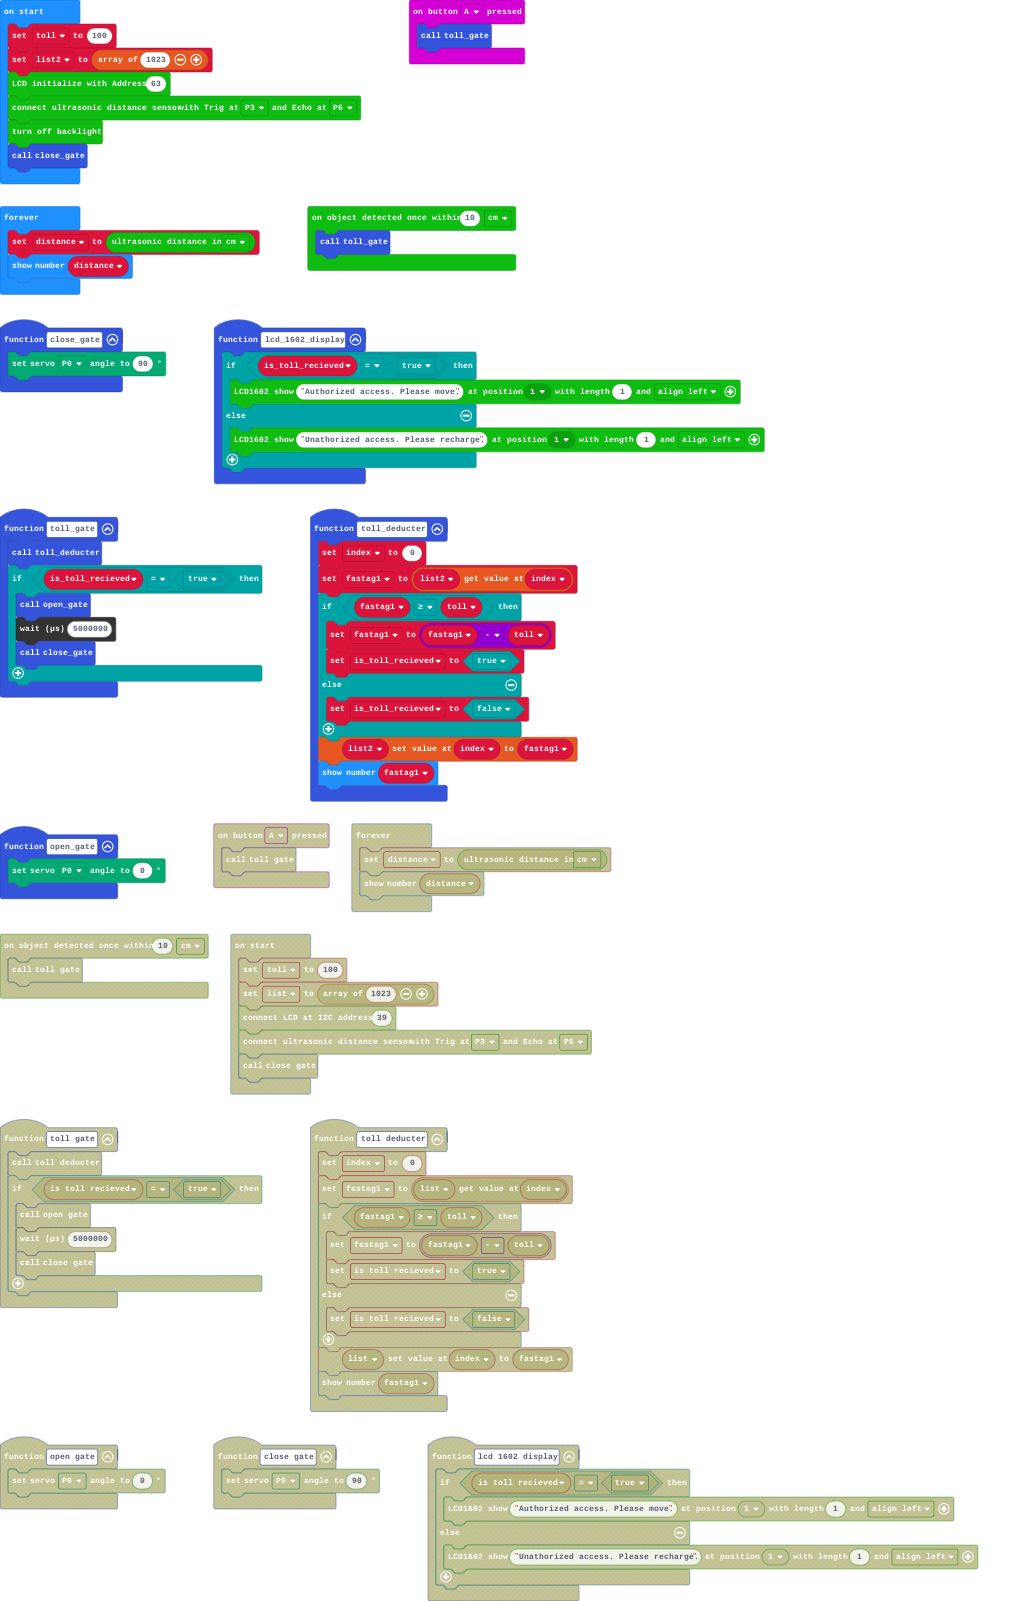
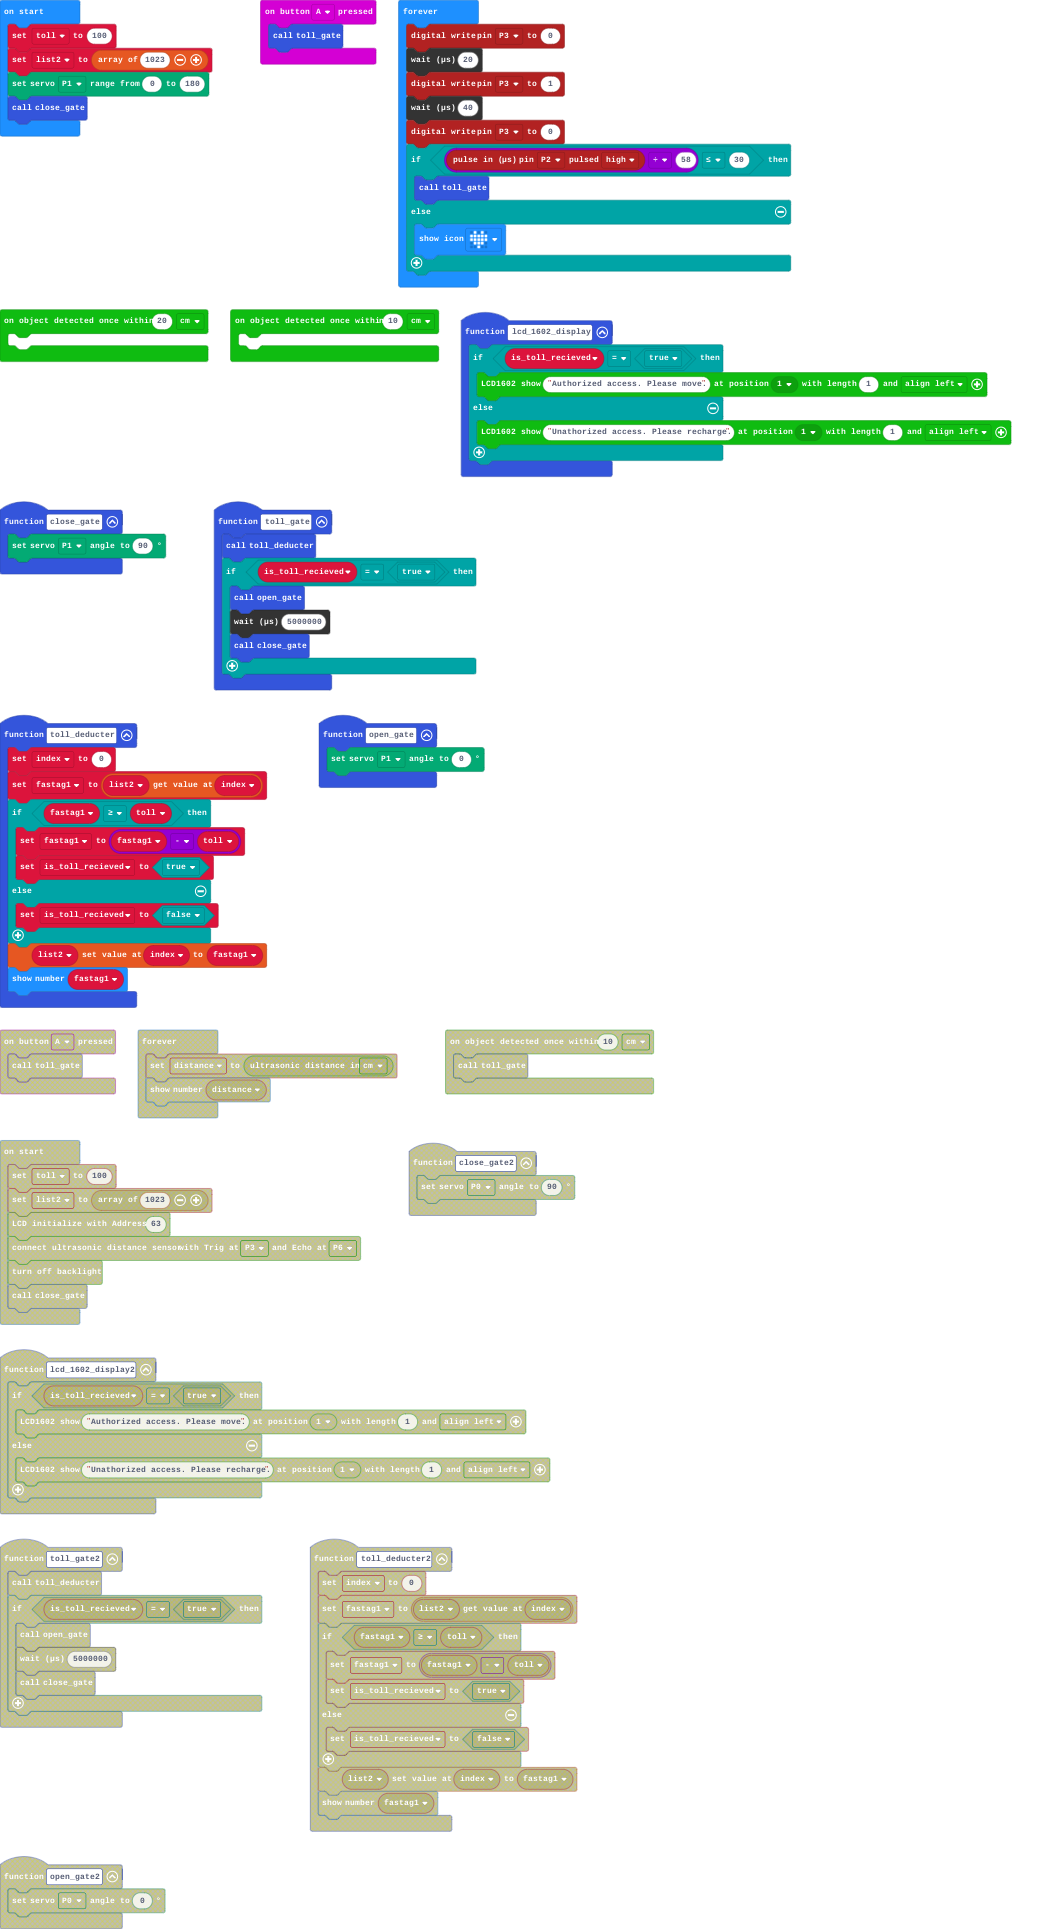
Update main.blocks, main.ts, main.py

diff --git a/main.ts b/main.ts
@@ -6,6 +6,9 @@ function toll_gate () {
         close_gate()
     }
 }
+makerbit.onUltrasonicObjectDetected(20, DistanceUnit.CM, function () {
+	
+})
 function lcd_1602_display () {
     if (is_toll_recieved == true) {
         makerbit.showStringOnLcd1602("Authorized access. Please move.", makerbit.position1602(LcdPosition1602.Pos1), 1, TextOption.AlignLeft)
@@ -14,10 +17,10 @@ function lcd_1602_display () {
     }
 }
 makerbit.onUltrasonicObjectDetected(10, DistanceUnit.CM, function () {
-    toll_gate()
+	
 })
 function close_gate () {
-    servos.P0.setAngle(90)
+    servos.P1.setAngle(90)
 }
 input.onButtonPressed(Button.A, function () {
     toll_gate()
@@ -35,9 +38,8 @@ function toll_deducter () {
     basic.showNumber(fastag1)
 }
 function open_gate () {
-    servos.P0.setAngle(0)
+    servos.P1.setAngle(0)
 }
-let distance = 0
 let fastag1 = 0
 let index = 0
 let is_toll_recieved = false
@@ -45,11 +47,17 @@ let list2: number[] = []
 let toll = 0
 toll = 100
 list2 = [1023]
-I2C_LCD1602.LcdInit(63)
-makerbit.connectUltrasonicDistanceSensor(DigitalPin.P3, DigitalPin.P6)
-I2C_LCD1602.BacklightOff()
+servos.P1.setRange(0, 180)
 close_gate()
 basic.forever(function () {
-    distance = makerbit.getUltrasonicDistance(DistanceUnit.CM)
-    basic.showNumber(distance)
+    pins.digitalWritePin(DigitalPin.P3, 0)
+    control.waitMicros(20)
+    pins.digitalWritePin(DigitalPin.P3, 1)
+    control.waitMicros(40)
+    pins.digitalWritePin(DigitalPin.P3, 0)
+    if (pins.pulseIn(DigitalPin.P2, PulseValue.High) / 58 <= 30) {
+        toll_gate()
+    } else {
+        basic.showIcon(IconNames.Heart)
+    }
 })

diff --git a/main.py b/main.py
@@ -1,13 +1,14 @@
+def toll_gate():
+    toll_deducter()
+    if is_toll_recieved == True:
+        open_gate()
+        control.wait_micros(5000000)
+        close_gate()
+
 def on_ultrasonic_object_detected_cm():
-    toll_gate()
-makerbit.on_ultrasonic_object_detected(10, DistanceUnit.CM, on_ultrasonic_object_detected_cm)
+    pass
+makerbit.on_ultrasonic_object_detected(20, DistanceUnit.CM, on_ultrasonic_object_detected_cm)
 
-def on_button_pressed_a():
-    toll_gate()
-input.on_button_pressed(Button.A, on_button_pressed_a)
-
-def close_gate():
-    servos.P0.set_angle(90)
 def lcd_1602_display():
     if is_toll_recieved == True:
         makerbit.show_string_on_lcd1602("Authorized access. Please move.",
@@ -19,12 +20,18 @@ def lcd_1602_display():
             makerbit.position1602(LcdPosition1602.POS1),
             1,
             TextOption.ALIGN_LEFT)
-def toll_gate():
-    toll_deducter()
-    if is_toll_recieved == True:
-        open_gate()
-        control.wait_micros(5000000)
-        close_gate()
+
+def on_ultrasonic_object_detected_cm2():
+    toll_gate()
+makerbit.on_ultrasonic_object_detected(10, DistanceUnit.CM, on_ultrasonic_object_detected_cm2)
+
+def close_gate():
+    servos.P1.set_angle(90)
+
+def on_button_pressed_a():
+    toll_gate()
+input.on_button_pressed(Button.A, on_button_pressed_a)
+
 def toll_deducter():
     global index, fastag1, is_toll_recieved
     index = 0
@@ -37,8 +44,7 @@ def toll_deducter():
     list2[index] = fastag1
     basic.show_number(fastag1)
 def open_gate():
-    servos.P0.set_angle(0)
-distance = 0
+    servos.P1.set_angle(0)
 fastag1 = 0
 index = 0
 is_toll_recieved = False
@@ -46,12 +52,17 @@ list2: List[number] = []
 toll = 0
 toll = 100
 list2 = [1023]
-makerbit.connect_lcd(127)
-makerbit.connect_ultrasonic_distance_sensor(DigitalPin.P3, DigitalPin.P6)
+servos.P1.set_range(0, 180)
 close_gate()
 
 def on_forever():
-    global distance
-    distance = makerbit.get_ultrasonic_distance(DistanceUnit.CM)
-    basic.show_number(distance)
+    pins.digital_write_pin(DigitalPin.P3, 0)
+    control.wait_micros(20)
+    pins.digital_write_pin(DigitalPin.P3, 1)
+    control.wait_micros(40)
+    pins.digital_write_pin(DigitalPin.P3, 0)
+    if pins.pulse_in(DigitalPin.P2, PulseValue.HIGH) / 58 <= 20:
+        toll_gate()
+    else:
+        basic.show_icon(IconNames.HEART)
 basic.forever(on_forever)
